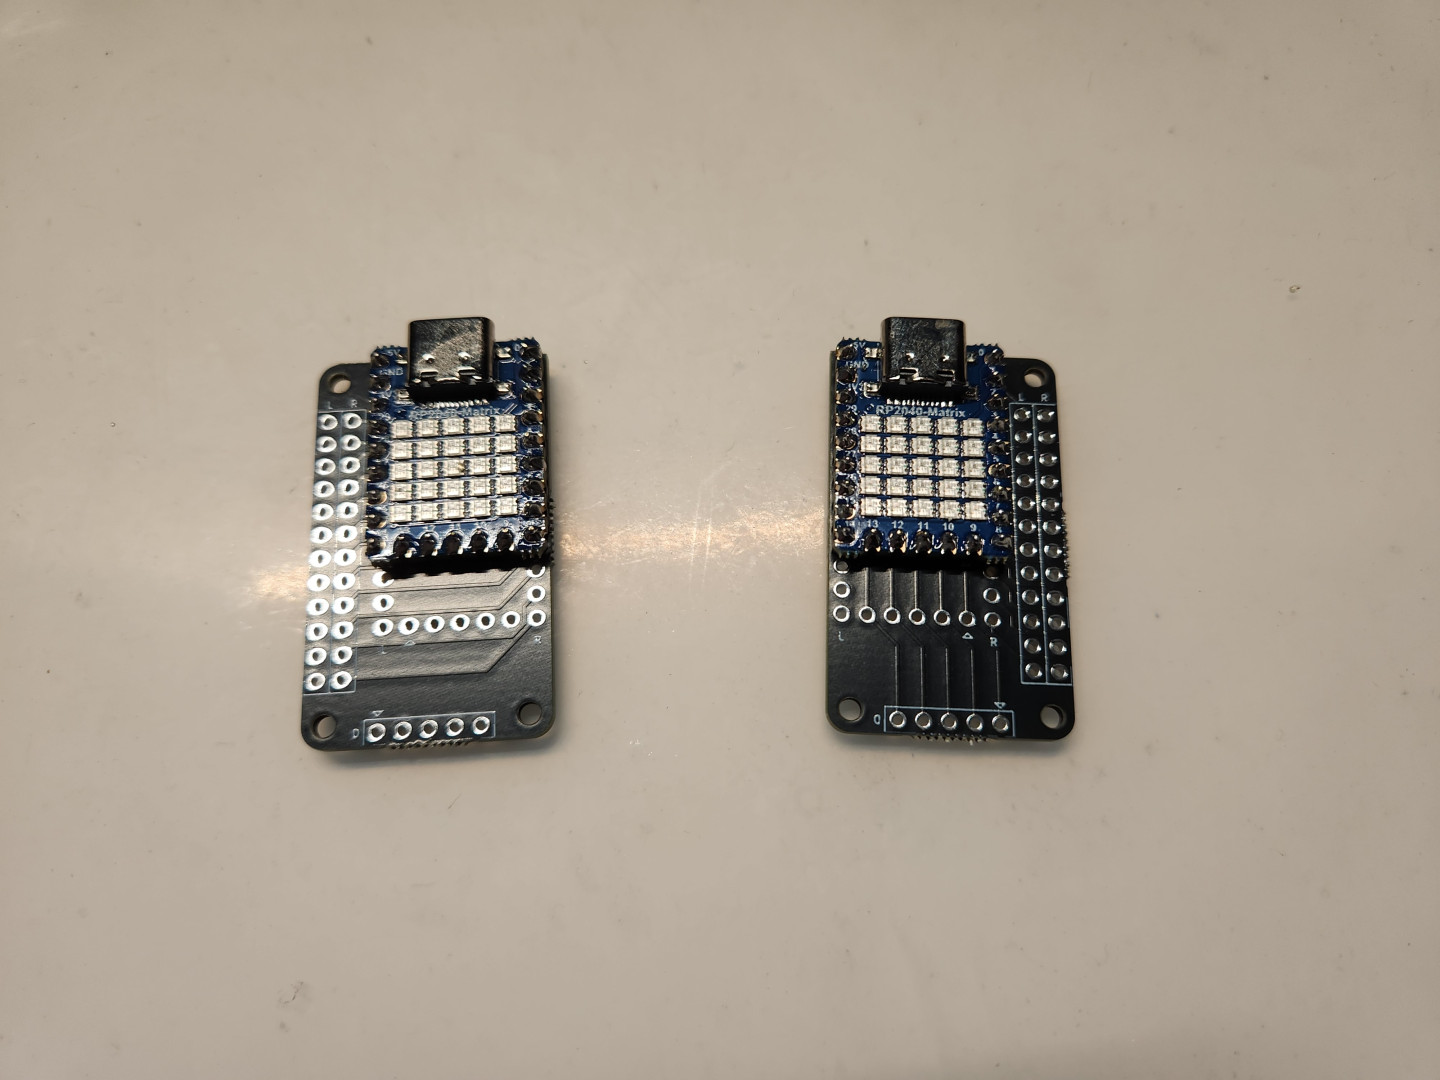
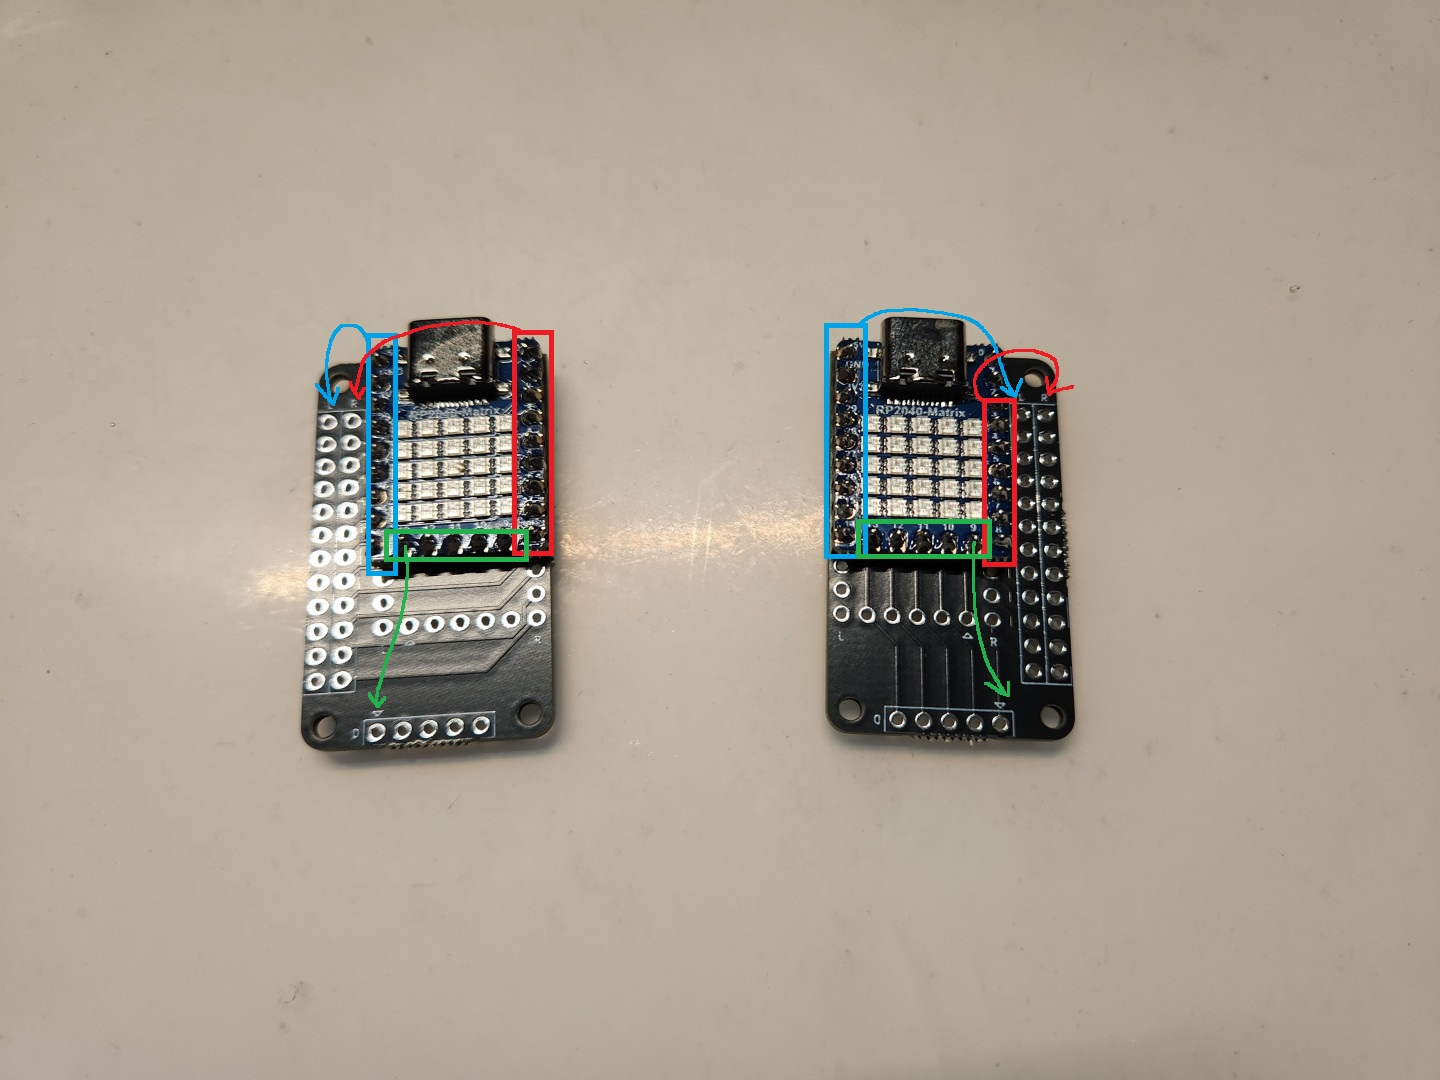
update guide

diff --git a/guide_en.md b/guide_en.md
@@ -67,6 +67,10 @@
 
 ![](pics/g25.jpg)
 
+> **Note**
+>
+> After solder the MCU on the MCU board, the `left side pin` will lead to the `L side`, the `right side` will lead to the `R side`, and the `bottom side` will lead to the `D side` below, and the direction of the `arrow` will be the position of the pin as the direction reading.
+
 - The `TRRS jacks` are then soldered to the dedicated PCB board.
 
 ![](pics/g26.jpg)

diff --git a/guide.md b/guide.md
@@ -67,6 +67,10 @@
 
 ![](pics/g25.jpg)
 
+> **Note**
+>
+> 將MCU固定在MCU電路板上後，`左側的引腳`會導向`L側`匯流排、`右側`會導向`R側`、`下方`會導向下方的`D側`，`箭頭`的方向為該針腳的位置，作為方向判讀。
+
 - 接著再將`TRRS座`也焊接固定在專用的PCB板上。
 
 ![](pics/g26.jpg)
